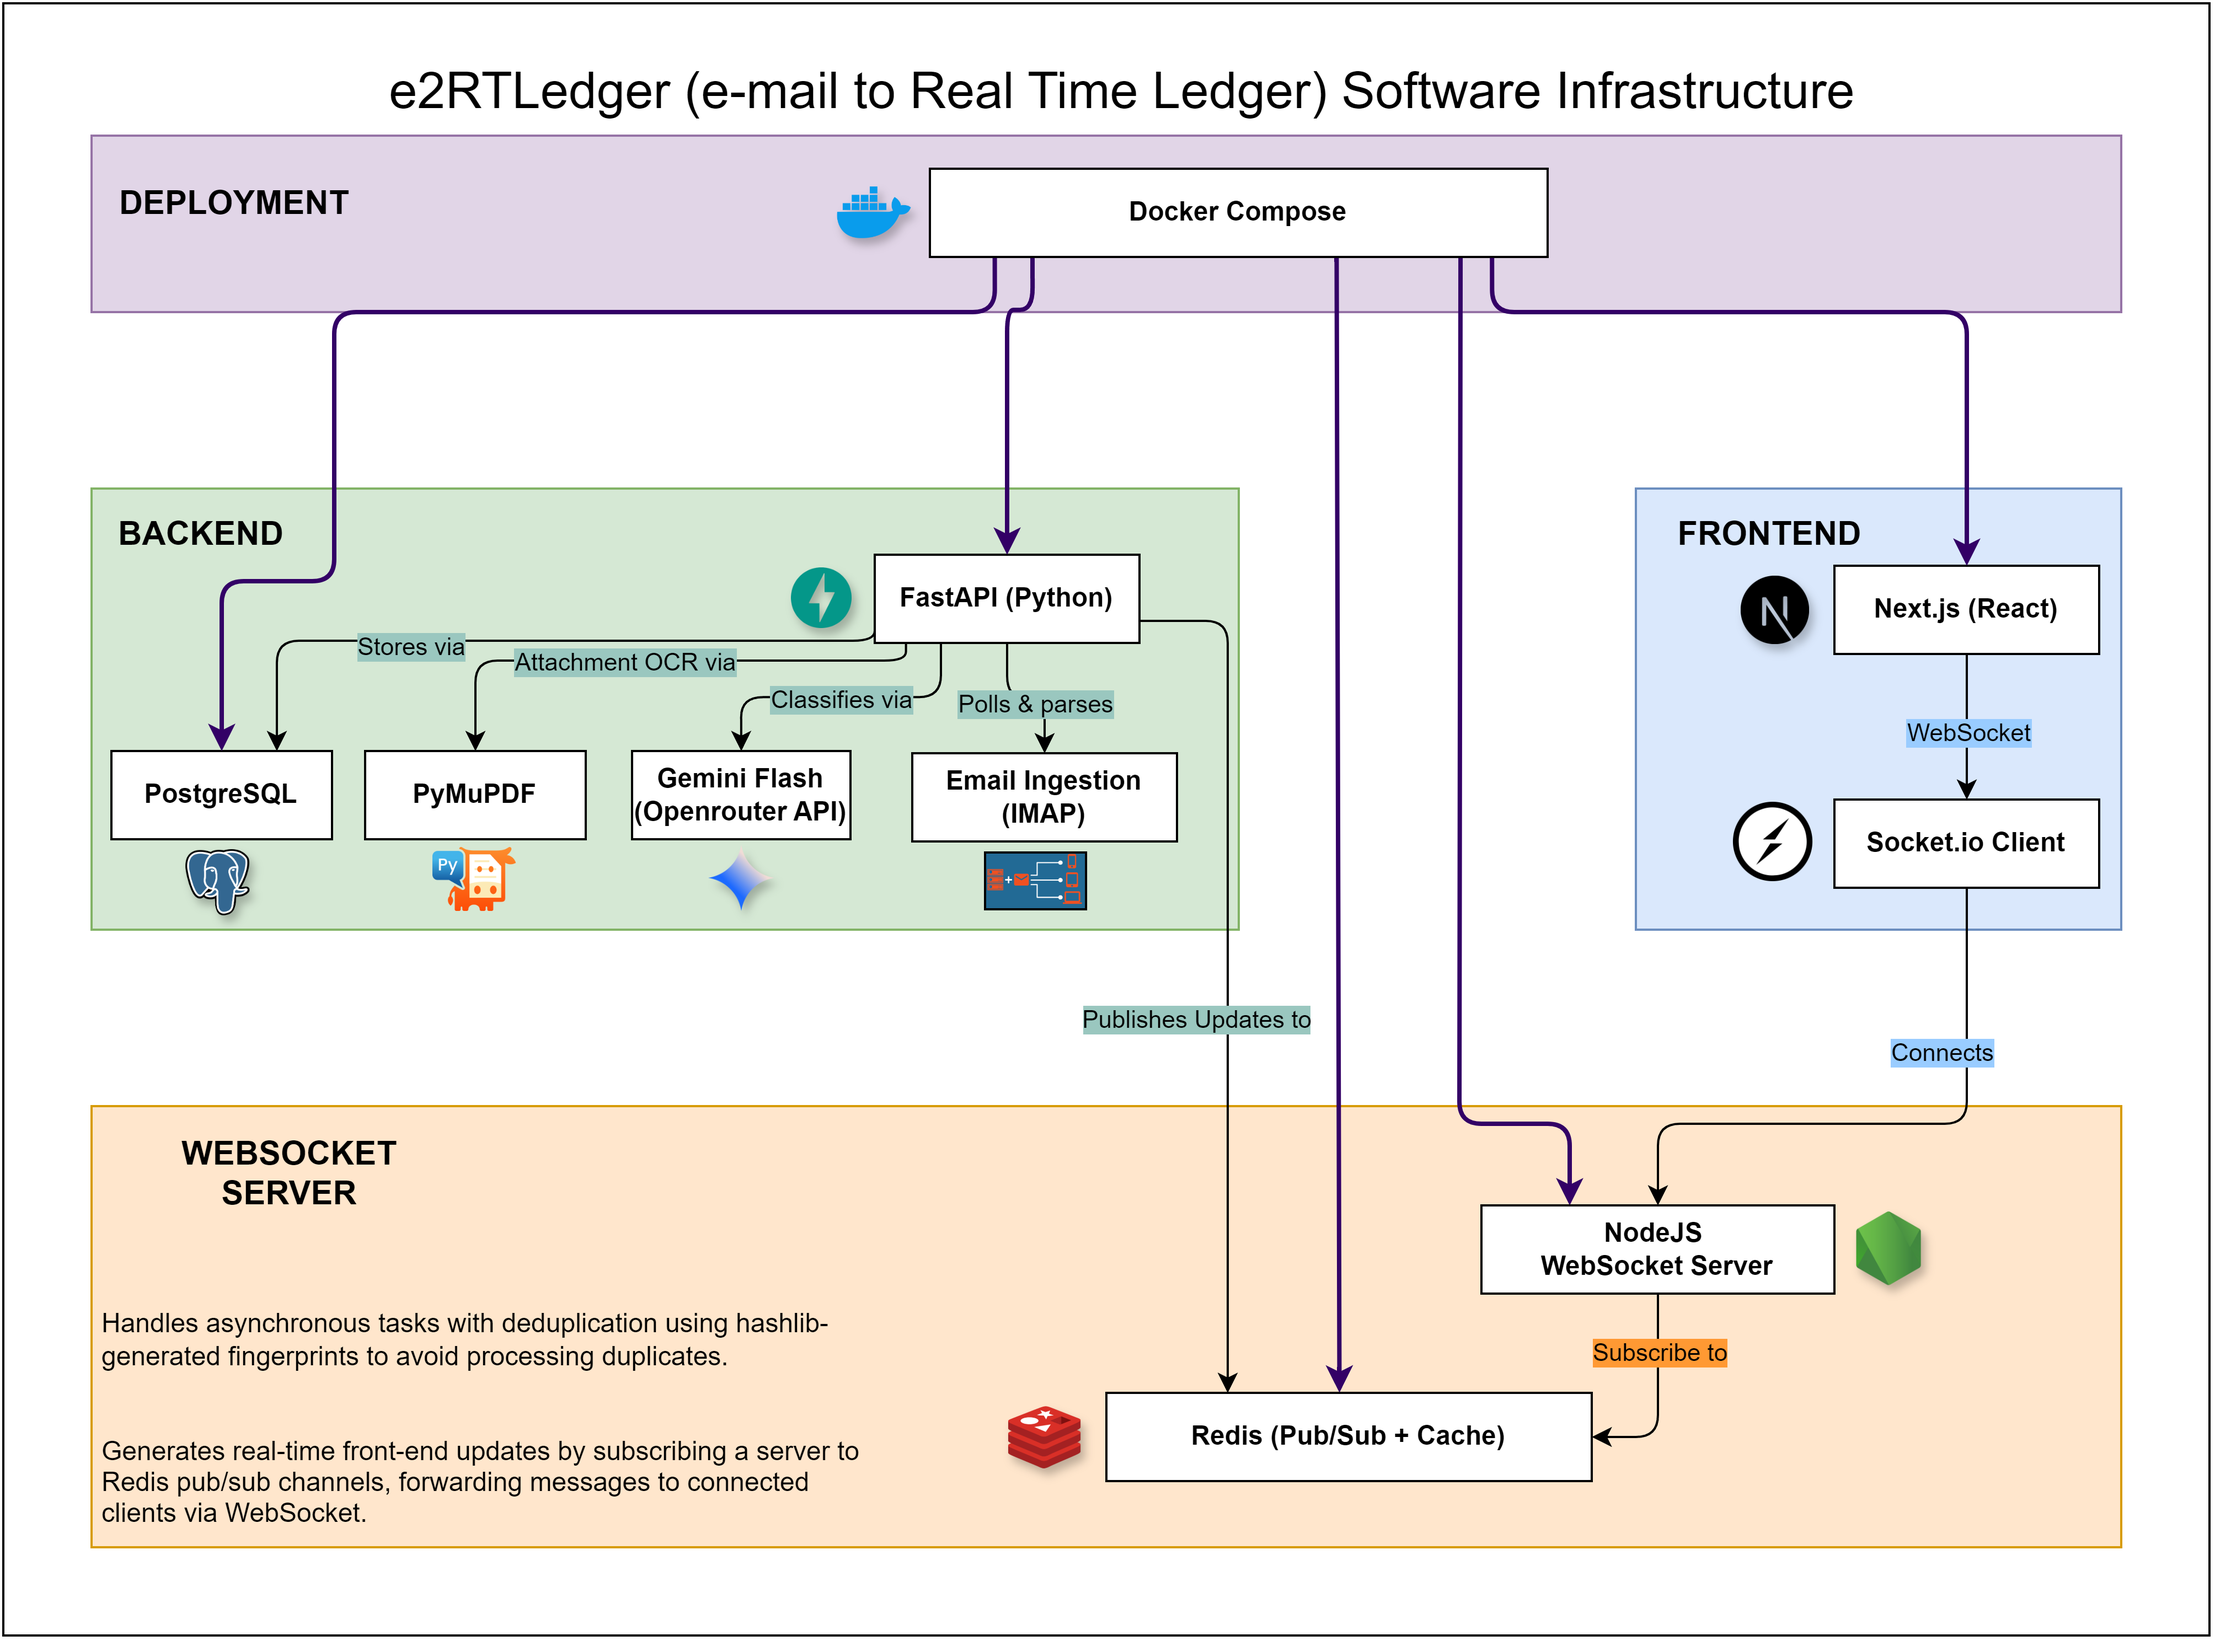
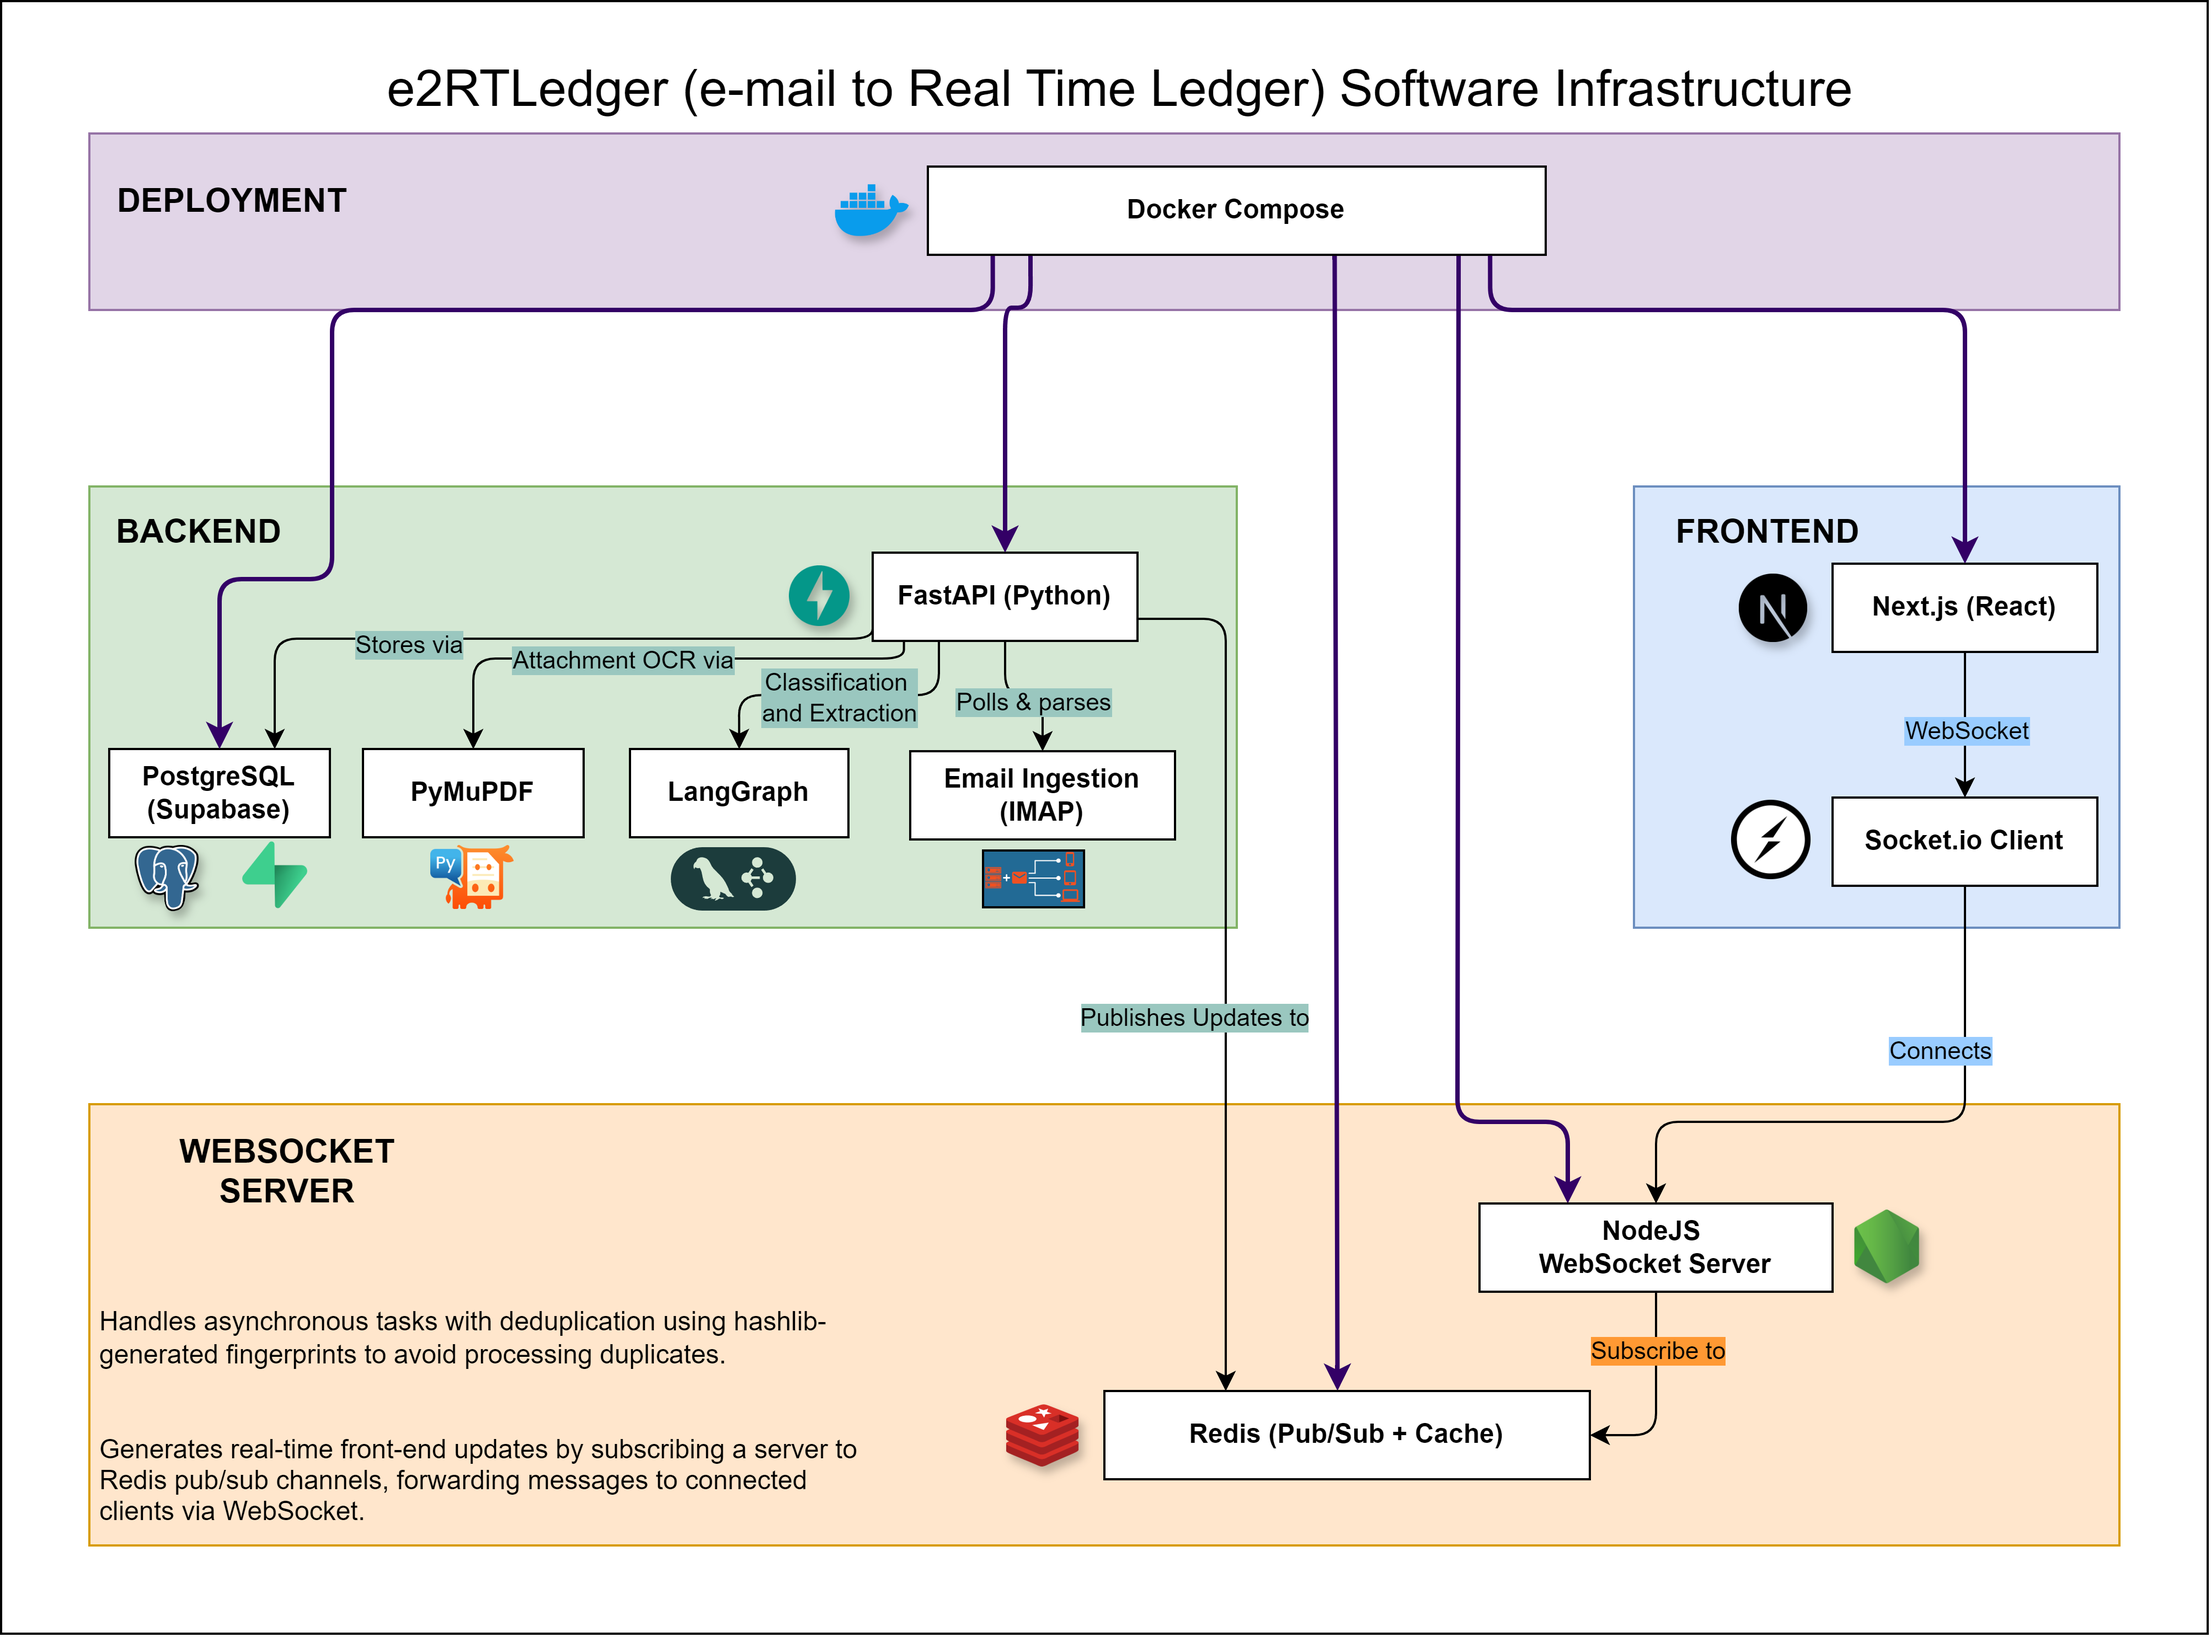
feat: Updated README

diff --git a/backend/fastapi_app/nlp.py b/backend/fastapi_app/nlp.py
@@ -8,7 +8,7 @@ import requests
 
 OPENROUTER_API_KEY = os.getenv("OPENROUTER_API_KEY")
 OPENROUTER_URL = "https://openrouter.ai/api/v1/chat/completions"
-MODEL_NAME = "openai/gpt-4.1-mini"
+MODEL_NAME = "anthropic/claude-3.5-haiku"
 
 
 def extract_json_from_text(text):
@@ -96,22 +96,43 @@ def entity_extractor_node(state: TransactionState) -> TransactionState:
     input_text = state["input_text"]
     
     system_prompt = f"""
-You are an intelligent financial data extraction assistant.
-
-Given the following raw text from an email and OCR-processed attachments, extract the following fields accurately as JSON:
-
-- "text": a short description of the transaction
-- "date": transaction date in YYYY-MM-DD format (Use the email date {state["date"] if state["date"] else "None"} if missing)
-- "amount": transaction amount as a float (0.00 if missing)
-- "currency": 3-letter ISO currency code (e.g., USD, SGD, if missing, use "None")
-- "vendor": merchant or party involved for transaction with EARLYBIRD AI PTE LTD (if missing, use "None")
-- "ttype": "Debit" or "Credit" from the perspective of EARLYBIRD AI PTE LTD (if missing, use "None")
-- "referenceid": string of unique transaction or invoice identifier (if missing, use "None")
-
-IMPORTANT: Return ONLY the JSON object without any explanation, formatting, or additional text. Do not include any markdown formatting or explanatory text.
-"""
+    You are an intelligent financial data extraction assistant. You are skilled in extracting structured financial 
+    transaction data from unstructured text, such as emails or OCR-processed documents.
+    """
 
     user_prompt = f"""
+    Given the following raw text from an email and OCR-processed attachments, extract the following fields accurately as JSON:
+
+    - "text": a short description of the transaction
+    - "date": transaction date in YYYY-MM-DD format (Use the email date {state["date"] if state["date"] else "None"} if missing)
+    - "amount": transaction amount as a float (0.00 if missing)
+    - "currency": 3-letter ISO currency code (e.g., USD, SGD, if missing, use "None")
+    - "vendor": merchant or party involved for transaction with EARLYBIRD AI PTE LTD (if missing, use "None")
+    - "ttype": "Debit" or "Credit" from EARLYBIRD AI PTE LTD's perspective:
+    * "Debit" = Money going OUT of EARLYBIRD AI PTE LTD (expenses, payments made, purchases)
+    * "Credit" = Money coming INTO EARLYBIRD AI PTE LTD (income, payments received, refunds)
+    - "referenceid": string of unique transaction or invoice identifier (if missing, use "None")
+
+    EXAMPLES:
+
+    Example 1 - Invoice received (money going out):
+    Raw text: "Invoice #INV-2024-001 from Office Supplies Co. for 250.00 EUR dated 2024-03-15. Payment due for office equipment purchase."
+    JSON: {{"text": "Office equipment purchase", "date": "2024-03-15", "amount": 250.00, "currency": "EUR", "vendor": "Office Supplies Co.", "ttype": "Debit", "referenceid": "INV-2024-001"}}
+
+    Example 2 - Payment received (money coming in):
+    Raw text: "Payment received from Client ABC to EARLYBIRD AI PTE LTD. for services rendered. Amount: SGD 1,500.00. Reference: PAY-2024-445. Date: 2024-03-20"
+    JSON: {{"text": "Payment received for services", "date": "2024-03-20", "amount": 1500.00, "currency": "SGD", "vendor": "Client ABC", "ttype": "Credit", "referenceid": "PAY-2024-445"}}
+
+    Example 3 - Refund received (money coming in):
+    Raw text: "Refund processed by Software Provider Ltd. to EARLYBIRD AI PTE LTD. Amount: USD 89.99. Refund ID: REF-789. Date: 2024-03-18"
+    JSON: {{"text": "Refund from software provider", "date": "2024-03-18", "amount": 89.99, "currency": "USD", "vendor": "Software Provider Ltd.", "ttype": "Credit", "referenceid": "REF-789"}}
+
+    Example 4 - Expense payment (money going out):
+    Raw text: "Monthly subscription fee charged by Cloud Services Inc. $45.00 USD. Transaction ID: TXN-456789. Date: 2024-03-25"
+    JSON: {{"text": "Monthly subscription fee", "date": "2024-03-25", "amount": 45.00, "currency": "USD", "vendor": "Cloud Services Inc.", "ttype": "Debit", "referenceid": "TXN-456789"}}
+
+    IMPORTANT: Return ONLY the JSON object without any explanation, formatting, or additional text. Do not include any markdown formatting or explanatory text.
+
     Raw text from email and OCR attachments:
     \"\"\"
     {input_text}
@@ -162,24 +183,78 @@ def categorizer_node(state: TransactionState) -> TransactionState:
     input_text = state["input_text"]
     
     system_prompt = f"""
-You are an expert financial transaction categorization assistant.
+    You are an expert financial transaction categorization assistant.
+    You are skilled in classifying transactions into predefined categories based on the extracted data.
+    """
+    
+    user_prompt = f"""# Expense Classification Prompt
 
-Given the transaction description, vendor name, and other context, classify the transaction into one of these categories:
+        You are an expert expense categorization assistant. Your task is to classify transaction data into one of the following categories based on the description, merchant, and amount:
 
-- Meals & Entertainment
-- Transport
-- SaaS
-- Travel
-- Office
-- Other
+        ## Categories:
+        - **Meals & Entertainment**: Restaurants, bars, catering, team meals, client dinners, entertainment venues
+        - **Transport**: Uber, taxi, gas, parking, public transit, car rentals, vehicle maintenance
+        - **SaaS**: Software subscriptions, cloud services, online tools, digital platforms
+        - **Travel**: Hotels, flights, airfare, accommodation, travel booking sites
+        - **Office**: Office supplies, equipment, furniture, utilities, rent, phone bills
+        - **Other**: Any expense that doesn't clearly fit the above categories
 
-IMPORTANT: Return ONLY a JSON object with a "label" field containing one of the categories above. Do not include any explanation, formatting, or additional text.
+        ## Instructions:
+        1. Analyze the transaction description, merchant name, and amount
+        2. Consider the business context and typical expense patterns
+        3. Choose the most appropriate category
+        4. Return only a JSON object with a "label" field
 
-JSON:"""
+        ## Examples:
+
+        **Input:** "UBER TRIP - SAN FRANCISCO, $23.45"
+        **Output:** {{"label": "Transport"}}
+
+        **Input:** "STARBUCKS COFFEE - DOWNTOWN, $8.99"
+        **Output:** {{"label": "Meals & Entertainment"}}
+
+        **Input:** "ADOBE CREATIVE CLOUD SUBSCRIPTION, $52.99"
+        **Output:** {{"label": "SaaS"}}
+
+        **Input:** "MARRIOTT HOTEL - CHICAGO, $189.00"
+        **Output:** {{"label": "Travel"}}
+
+        **Input:** "STAPLES OFFICE SUPPLIES, $45.67"
+        **Output:** {{"label": "Office"}}
+
+        **Input:** "AMAZON WEB SERVICES, $127.83"
+        **Output:** {{"label": "SaaS"}}
+
+        **Input:** "SHELL GAS STATION, $65.22"
+        **Output:** {{"label": "Transport"}}
+
+        **Input:** "BLUE BOTTLE COFFEE - CLIENT MEETING, $34.50"
+        **Output:** {{"label": "Meals & Entertainment"}}
+
+        **Input:** "UNITED AIRLINES - FLIGHT TO NYC, $456.00"
+        **Output:** {{"label": "Travel"}}
+
+        **Input:** "VERIZON BUSINESS - OFFICE PHONE, $89.99"
+        **Output:** {{"label": "Office"}}
+
+        **Input:** "MICROSOFT OFFICE 365, $15.00"
+        **Output:** {{"label": "SaaS"}}
+
+        **Input:** "WALMART - MISCELLANEOUS ITEMS, $23.45"
+        **Output:** {{"label": "Other"}}
+
+        ## Task:
+        Classify the following transaction data:
+
+        ```
+        {input_text}
+        ```
+
+        Return only a JSON object with a "label" field containing the category."""
 
     messages = [
         {"role": "system", "content": system_prompt},
-        {"role": "user", "content": "{\"text\": \"" + input_data.get("text", "") + "\"}"}
+        {"role": "user", "content": user_prompt}
     ]
 
     try:

diff --git a/backend/fastapi_app/email_listener.py b/backend/fastapi_app/email_listener.py
@@ -15,7 +15,7 @@ from concurrent.futures import ThreadPoolExecutor, as_completed
 
 from fastapi_app.redis_publisher import RedisLogHandler
 
-IMAP_SERVER = "imap.gmail.com"
+IMAP_SERVER = os.getenv("IMAP_SERVER")
 EMAIL_ACCOUNT = os.getenv("EMAIL_ACCOUNT")
 EMAIL_PASSWORD = os.getenv("EMAIL_PASSWORD")
 
@@ -56,9 +56,9 @@ def decode_str(s) -> str:
 def normalize_text(text: str) -> str:
     if not text:
         return ""
-    text = text.strip().lower()  # lowercase and trim
-    text = unicodedata.normalize("NFC", text)  # normalize unicode
-    text = re.sub(r"\s+", " ", text)  # collapse all whitespace runs to single space
+    text = text.strip().lower()
+    text = unicodedata.normalize("NFC", text)
+    text = re.sub(r"\s+", " ", text)
     return text
 
 def compute_fingerprint(*args) -> str:
@@ -129,7 +129,6 @@ def submit_ocr(attachment: dict) -> str:
     submit_resp = requests.post(FASTAPI_OCR_SUBMIT_URL, files=files)
     if not submit_resp.ok:
         logging.warning(f"OCR submission failed for {attachment['filename']}: {submit_resp.text}")
-        # Release claim? (Optional depending on your Redis logic)
         return ""
 
     task_id = submit_resp.json().get("task_id")
@@ -141,7 +140,6 @@ def submit_ocr(attachment: dict) -> str:
             status = result_resp.json().get("status")
             if status == "completed":
                 text = result_resp.json().get("text", "")
-                # Cache the OCR result in Redis so others don't reprocess
                 cache_resp = requests.post(FASTAPI_REDIS_CACHE_URL, json={"fingerprint": fingerprint, "text": text})
                 if cache_resp.status_code != 200:
                     logging.warning(f"Failed to cache OCR text for fingerprint {fingerprint}")
@@ -152,7 +150,6 @@ def submit_ocr(attachment: dict) -> str:
         time.sleep(1)
 
     logging.warning(f"OCR timed out for {attachment['filename']}")
-    # Optionally release claim here if task timed out, to allow retries later
     return ""
 
 

diff --git a/backend/fastapi_app/redis_publisher.py b/backend/fastapi_app/redis_publisher.py
@@ -18,7 +18,6 @@ def publish_entry_once(data):
 
     redis_key = f"published:{fingerprint}"
 
-    # Set only if not exists (NX) — expire in 1 hour (or longer if needed)
     if redis_conn.set(redis_key, "1", nx=True, ex=3600):
         redis_conn.publish("ledger_updates", json.dumps(data))
         logging.info(f"Published new ledger update for {fingerprint[:8]}")

diff --git a/backend/fastapi_app/db.py b/backend/fastapi_app/db.py
@@ -66,6 +66,7 @@ def save_entry(data: dict):
     finally:
         db.close()
 
+# IF local DB
 
 # Base.metadata.create_all(bind=engine)
 
